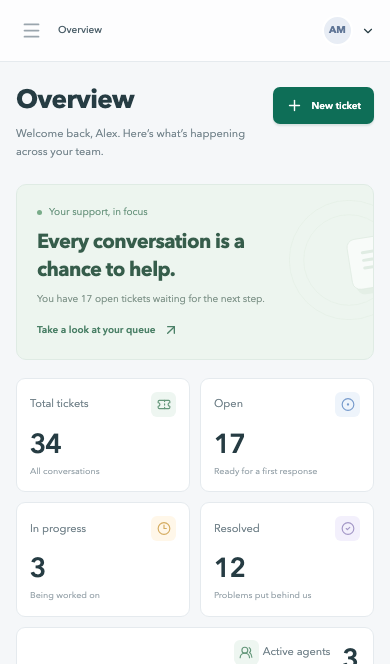
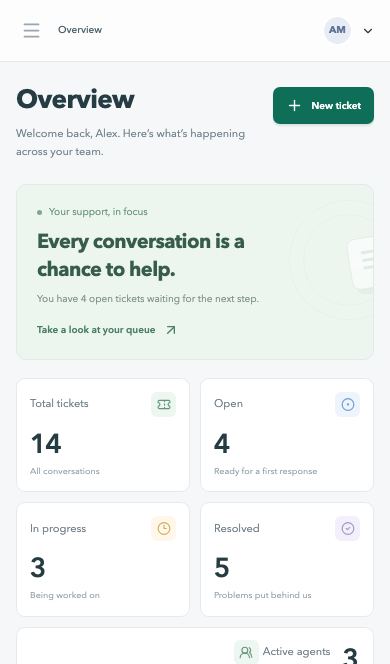
feat: deploy full-stack SupportDesk on Vercel with Neon

diff --git a/api/index.js b/api/index.js
@@ -1,0 +1,6 @@
+import { createApp } from '../server/src/app.js';
+import { db } from '../server/src/lib/database.js';
+
+// Vercel owns the HTTP listener and process lifecycle. Reuse the same API and
+// warm-instance database pool without starting the standalone Node server.
+export default createApp({ db });

diff --git a/docs/deployment.md b/docs/deployment.md
@@ -1,0 +1,30 @@
+# Vercel Deployment Evidence
+
+Deployed on October 30, 2026 (Asia/Karachi).
+
+- App: https://rabeebcodes-assess.vercel.app
+- API base: https://rabeebcodes-assess.vercel.app/api
+- Readiness: https://rabeebcodes-assess.vercel.app/api/health/ready
+- Vercel project: `mharis404s-projects/rabeebcodes-assess`
+- Initial verified production deployment: `dpl_488NouFVuooTcxPS9Rjq82d2mqaD`
+- Database: Neon Free, `supportdesk-db`, region `iad1`.
+
+The root Vercel configuration builds the React client and forwards `/api/*` to the existing Express API through `api/index.js`. Node.js is pinned to 24.x. The function reuses its warm-instance Prisma client; the standalone listener and its shutdown hooks are used only for persistent Node hosting. HTTPS, HttpOnly cookies, exact production Origin checks, and session-bound CSRF operate on the same domain.
+
+Production uses its own managed database and a fresh signing secret. Migrations and mock demo seed were run before the deployment. Credentials and pulled environment files remain ignored; source documents/local artifacts are excluded from deployment uploads. The account owner completed provider terms acceptance before the free database was provisioned.
+
+## Hosted verification
+
+- `/login` and direct `/tickets` loads return the SPA successfully.
+- `/api/health/live` and `/api/health/ready` return 200 JSON.
+- Unauthenticated `/api/tickets` returns 401 JSON rather than exposing records.
+- Newman against the public origin completed 23 requests and 37 assertions with zero failures, covering login, CSRF, user lookup, ticket CRUD, assignment/status, idempotent replies, activity, dashboard/metrics, cleanup, and logout revocation.
+- Playwright ran the customer → ticket creation → Admin assignment → Agent reply → resolution workflow and loaded-layout checks on desktop and mobile against the public HTTPS origin. Production screenshots are in `docs/screenshots/`.
+
+The hosted smoke run is separate from the local 50-user load benchmark. It does not establish a production capacity SLA, shared rate-limit enforcement, multi-instance pool budget, backup/restore guarantee, or controlled forced-shutdown behavior.
+
+## Subsequent releases
+
+Run migrations once for schema changes, verify the build and relevant tests, then deploy from the repository root with `vercel deploy --prod`. The first deployment used the authenticated CLI. Vercel's attempt to connect the private GitHub repository lacked GitHub-app access; automatic Git-triggered deployments require the account owner to grant that repository access in Vercel. Manual CLI releases are verified and functional.
+
+Only production has database/authentication environment settings. Configure isolated preview settings before using preview deployments; do not copy operational secrets into client variables or Git. Demo accounts use the documented demo password and contain mock data only.

diff --git a/docs/implementation-notes.md b/docs/implementation-notes.md
@@ -21,7 +21,7 @@ Local development, test, and benchmark databases are separate. Final verificatio
 
 The load report contains measured data and environment limitations. Architecture diagrams describe current boundaries and a future scaling path separately. Backup restore, a second API replica, cross-provider production cookies, and graceful shutdown under a controlled long-running request require additional evidence before being claimed as verified.
 
-Hosted frontend/API URLs remain pending an Express-compatible deployment destination. Render/Vercel configuration is supplied, but no provider resources or paid plan were provisioned. GitHub publishing targets the connected user's private `MHaris404/rabeebcodes-assess` repository. The receipt time was not present in the source assessment; the final submission deadline must be set to exactly 48 elapsed hours after that actual receipt time.
+The frontend and Express API are deployed together at `https://rabeebcodes-assess.vercel.app`, backed by Neon Free PostgreSQL. The account owner accepted Neon marketplace terms before provisioning. No paid database plan was selected. Production schema migrations and mock account seed completed, and the hosted API/browser checks passed. GitHub publishing targets the connected user's private `MHaris404/rabeebcodes-assess` repository. The receipt time was not present in the source assessment; the final submission deadline must be set to exactly 48 elapsed hours after that actual receipt time.
 
 Optional attachments, email, password recovery, real-time subscriptions, Docker, and queues remain outside scope. Login throttling is process-local until a shared gateway/store is configured. Metrics are process-local cumulative counters. These limitations are explicit so the reviewer can assess what is implemented and what still depends on infrastructure.
 

diff --git a/docs/operations.md b/docs/operations.md
@@ -1,5 +1,13 @@
 # Operations
 
+## Vercel deployment
+
+Deploy from the repository root using `vercel.json`. It builds `client/dist`, serves SPA routes, and forwards `/api/*` to the shared Express application exported by `api/index.js`. Local development still uses the standalone Node listener. Vercel owns the function process lifecycle, so standalone SIGTERM/drain behavior is not claimed for that deployment mode.
+
+Use a managed PostgreSQL database (the selected marketplace option is Neon Free) with a bounded connection pool. Provisioning may require the account owner to accept the provider's terms. Set production `DATABASE_URL`, a fresh `JWT_SECRET`, exact `CLIENT_ORIGIN` for the production alias, `NODE_ENV=production`, and `COOKIE_SAME_SITE=lax`. The frontend uses same-origin `/api`, keeping cookies first-party. Keep preview deployments restricted until their own allowed origin/database environment is configured.
+
+After provisioning, run production migrations once, seed mock reviewer accounts with a demo-only password, deploy, and verify readiness, SPA reloads, login/logout, authorization, and the three-role workflow against the actual HTTPS origin. `.vercelignore` excludes local secrets, documents, screenshots, and execution artifacts from the upload.
+
 ## Hosting topology
 
 Deploy the Vite static output to a CDN/static host and Express to a persistent Node.js service with managed PostgreSQL. `client/vercel.json` supplies SPA fallback if Vercel is selected. `render.yaml` is a provisioning template for a Render API/database; review provider costs and plan availability before applying. No paid resources have been provisioned by this implementation.

diff --git a/docs/progress.md b/docs/progress.md
@@ -24,3 +24,6 @@
 - Final: Ruling: In-flight reads authorized at request authentication may complete after concurrent role change — normal request-boundary authorization; stricter instantaneous revocation would require additional locking/snapshot policy and remains outside the agreed contract.
 - Final: Ruling: Hosting, shared rate limits, backup restore, multi-replica operation, and forced-drain fault injection remain explicitly unverified — no infrastructure destination was provided; claiming those guarantees would be unsupported.
 - Final: Ruling: Keep the source assessment and unrelated compensation DOCX out of Git — implementation/documentation are sufficient for the private delivery repository; original local documents remain available.
+- Deployment completed October 30, 2026: Vercel project `rabeebcodes-assess`, Node 24, same-origin Express function + static React client, Neon Free PostgreSQL provisioned after account-owner terms acceptance. Production migration/seed completed. Public URL: https://rabeebcodes-assess.vercel.app.
+- Hosted evidence: readiness/liveness 200, unauthenticated tickets 401; Postman 23 requests/37 assertions passed; desktop/mobile primary workflow and loaded layout checks 4/4 passed. See docs/deployment.md. Secrets remain in Vercel/ignored local files; no paid database plan selected.
+- Deployment scope ruling: Use a shared Express app export for Vercel rather than the persistent listener; serverless lifecycle differs from standalone graceful drain. Keep automatic Git integration pending repository access; authenticated CLI deployment is complete.

diff --git a/README.md b/README.md
@@ -2,6 +2,10 @@
 
 A customer support workspace built for the Rabeeb Codes full-stack assessment. Customers open conversations, Admins assign work, and Agents reply and resolve tickets. Access is enforced by the API on every ticket and message operation.
 
+**Live app:** https://rabeebcodes-assess.vercel.app
+
+**API readiness:** https://rabeebcodes-assess.vercel.app/api/health/ready
+
 ## Run locally
 
 Requires Node.js 24+, npm, and PostgreSQL 15+.
@@ -106,7 +110,10 @@ The assessment leaves general edit/delete rights and staff-created ticket owners
 - Repository destination: https://github.com/MHaris404/rabeebcodes-assess (private).
 - Local web preview: http://localhost:5173
 - Local API readiness: http://localhost:4000/api/health/ready
-- Hosted URLs: pending selection/provisioning of Express-compatible hosting and PostgreSQL.
+- Hosted frontend: https://rabeebcodes-assess.vercel.app
+- Hosted API base: https://rabeebcodes-assess.vercel.app/api
+- Hosting: Vercel static frontend + Node 24 Express function, with Neon Free PostgreSQL; same-origin cookies/CSRF.
+- Hosted verification: 23 Postman requests/37 assertions and desktop/mobile customer → Admin → Agent workflow. See [deployment evidence](docs/deployment.md).
 - API contract: [endpoint documentation](docs/api.md).
 - Postman: [collection and local environment](docs/postman/README.md), with automatic session/CSRF and ticket-version handling.
 - Deployment, migrations, drain, recovery, and security limits: [operations](docs/operations.md).

diff --git a/docs/postman/README.md b/docs/postman/README.md
@@ -4,6 +4,8 @@
 2. Select **SupportDesk Local** and set its `password` to the local demo password: `SupportDesk2026!` (or your configured seed password).
 3. Run the **Core workflow** folder with its default Admin email. Keep Postman's cookie jar enabled.
 
+For the deployed demo, import `SupportDesk.production.postman_environment.json` instead and select **SupportDesk Production Demo**. Set the same documented mock demo password. Its base URL and Origin already point to the live Vercel app.
+
 The workflow logs in, captures CSRF automatically, finds an Agent, creates a demo ticket, updates/assigns it, posts and retries a reply, checks conversation/activity/dashboard/metrics, then deletes that demo ticket and logs out. IDs, ticket versions, and idempotency keys are managed by request scripts. No signing secret or JWT must be copied manually.
 
 Use **Registration reference (manual)** separately to create a new Customer. That request switches the current cookie session to the new Customer; run Login again to return to Admin. Registration is rate-limited.
